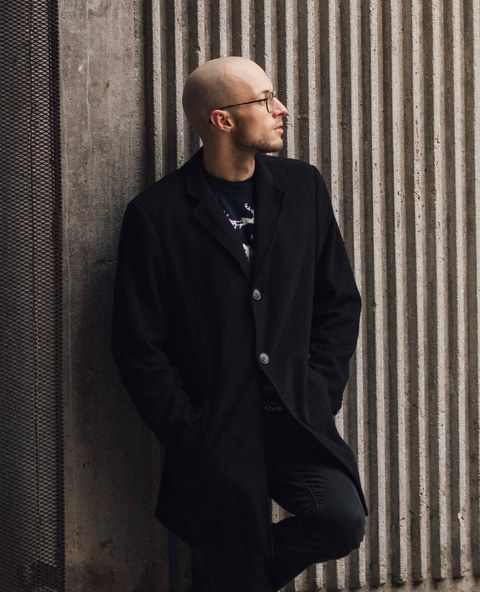
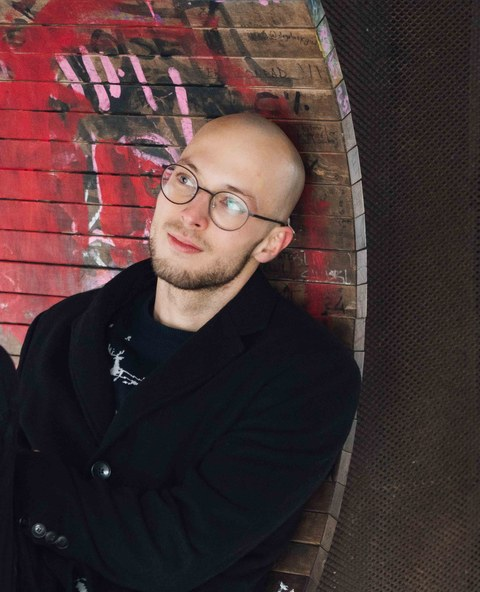
New photo; add office number to address
Claude-Session: https://claude.ai/code/session_011Ggpa1BpzXhjBWScfBC5DK

diff --git a/index.html b/index.html
@@ -41,7 +41,7 @@
 <h2>Contact</h2>
 <dl class="contact">
 <dt>Email</dt><dd>daniel.vitas [at] imfm.si</dd>
-<dt>Address</dt><dd>Institute of Mathematics, Physics and Mechanics<br>Jadranska ulica 19<br>1000 Ljubljana, Slovenia</dd>
+<dt>Address</dt><dd>Office 318 (third floor of physics building)<br>Institute of Mathematics, Physics and Mechanics<br>Jadranska ulica 19<br>1000 Ljubljana, Slovenia</dd>
 <dt>Profiles</dt><dd class="links profiles"><a href="https://arxiv.org/search/?query=Vitas%2C+Daniel&amp;searchtype=author">arXiv</a> · <a href="https://orcid.org/0000-0003-0296-2484">ORCID</a> · <a href="https://zbmath.org/authors/vitas.daniel">zbMATH</a> · <a href="https://mathscinet.ams.org/mathscinet/author?authorId=1400793">MathSciNet</a> · <a href="https://scholar.google.com/citations?user=M3ZcJtAAAAAJ">Google Scholar</a> · <a href="https://cris.cobiss.net/ecris/si/en/researcher/55294">SICRIS</a></dd>
 </dl>
 </section>

diff --git a/sl.html b/sl.html
@@ -32,7 +32,7 @@
 <h2>Kontakt</h2>
 <dl class="contact">
 <dt>E-pošta</dt><dd>daniel.vitas [at] imfm.si</dd>
-<dt>Naslov</dt><dd>Inštitut za matematiko, fiziko in mehaniko<br>Jadranska ulica 19<br>1000 Ljubljana</dd>
+<dt>Naslov</dt><dd>Pisarna 318 (tretje nadstropje stavbe za fiziko)<br>Inštitut za matematiko, fiziko in mehaniko<br>Jadranska ulica 19<br>1000 Ljubljana</dd>
 <dt>Profili</dt><dd class="links profiles"><a href="https://arxiv.org/search/?query=Vitas%2C+Daniel&amp;searchtype=author">arXiv</a> · <a href="https://orcid.org/0000-0003-0296-2484">ORCID</a> · <a href="https://zbmath.org/authors/vitas.daniel">zbMATH</a> · <a href="https://mathscinet.ams.org/mathscinet/author?authorId=1400793">MathSciNet</a> · <a href="https://scholar.google.com/citations?user=M3ZcJtAAAAAJ">Google Scholar</a> · <a href="https://cris.cobiss.net/ecris/si/sl/researcher/55294">SICRIS</a></dd>
 </dl>
 </section>
